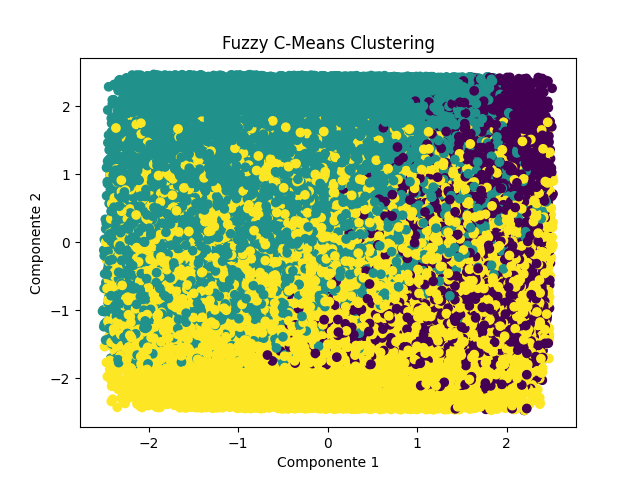
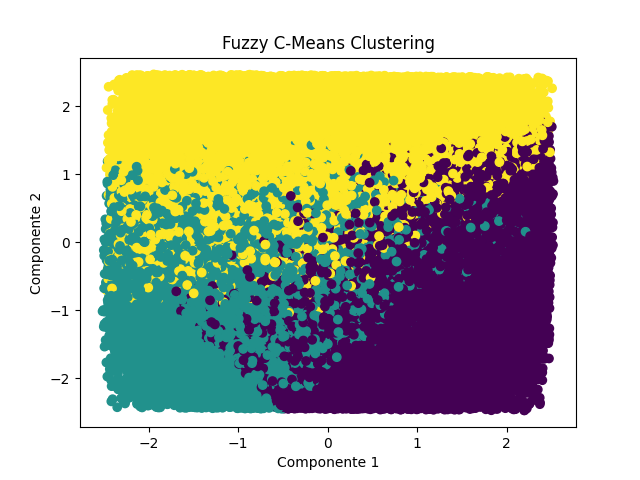
Corregido

diff --git a/informe_teorico_practico2/main.py b/informe_teorico_practico2/main.py
@@ -9,7 +9,7 @@ from sklearn.compose import ColumnTransformer
 from sklearn.pipeline import Pipeline
 from sklearn.impute import SimpleImputer
 from sklearn.linear_model import LogisticRegression
-from sklearn.tree import DecisionTreeClassifier
+from sklearn.tree import DecisionTreeClassifier, plot_tree
 from sklearn.linear_model import LinearRegression
 from sklearn.metrics import accuracy_score, precision_score, recall_score, f1_score, silhouette_score
 from sklearn.cluster import KMeans, DBSCAN
@@ -18,18 +18,11 @@ from sklearn.cluster import KMeans, DBSCAN
 import skfuzzy as fuzz
 
 df = pd.read_csv("ecommerce.csv")
-
-df = df.drop(columns=["Customer ID", "Customer Name"], errors='ignore')
-
-if "Customer Age" in df.columns and "Age" in df.columns:
-    df = df.drop(columns=["Customer Age"])
-
+df = df.drop(columns=["Customer ID", "Customer Name", "Customer Age"])
 df["Purchase Date"] = pd.to_datetime(df["Purchase Date"])
 df["month"] = df["Purchase Date"].dt.month
 df["day_of_week"] = df["Purchase Date"].dt.dayofweek
-
 df = df.drop(columns=["Purchase Date"])
-
 X = df.drop("Churn", axis=1)
 y = df["Churn"]
 
@@ -41,13 +34,11 @@ num_pipeline = Pipeline([
     ("imputer", SimpleImputer(strategy="mean")),
     ("scaler", StandardScaler())
 ])
-
 # Pipeline categórico
 cat_pipeline = Pipeline([
     ("imputer", SimpleImputer(strategy="most_frequent")),
     ("encoder", OneHotEncoder(handle_unknown="ignore"))
 ])
-
 # Preprocesador completo
 preprocessor = ColumnTransformer([
     ("num", num_pipeline, num_cols),
@@ -61,7 +52,7 @@ X_train, X_test, y_train, y_test = train_test_split(
 
 models = {
     "Logistic Regression": LogisticRegression(max_iter=1000),
-    "Decision Tree": DecisionTreeClassifier(max_depth=5),
+    "Decision Tree": DecisionTreeClassifier(max_depth=3),
     "Linear Regression": LinearRegression()
 }
 
@@ -77,7 +68,7 @@ for name, model in models.items():
     y_pred = pipe.predict(X_test)
 
     if name == "Linear Regression":
-        y_pred = (y_pred > 0.5).astype(int)
+        y_pred = (y_pred > 0.5).astype(int) #True o false lo convierte a 1 o 0 respectivamente
     
     results_original[name] = {
         "accuracy": accuracy_score(y_test, y_pred),
@@ -90,6 +81,15 @@ print("\n=== RESULTADOS DATASET ORIGINAL ===")
 for k, v in results_original.items():
     print(k, v)
 
+#Tengo que hacer a parte el arbol para luego graficar
+tree_pipe = Pipeline([
+    ("prep", preprocessor),
+    ("model", DecisionTreeClassifier(max_depth=3))
+])
+tree_pipe.fit(X_train, y_train)
+tree_model = tree_pipe.named_steps["model"]
+feature_names = tree_pipe.named_steps["prep"].get_feature_names_out()
+
 # clustering no supervisado
 
 
@@ -98,21 +98,17 @@ os.makedirs(output_dir, exist_ok=True)
 
 
 X_processed = preprocessor.fit_transform(X)
-
-
 pca = PCA(n_components=2)
 X_pca = pca.fit_transform(X_processed)
 
 # kmeans
 kmeans = KMeans(n_clusters=3, random_state=42)
 clusters_kmeans = kmeans.fit_predict(X_processed)
-
 # dbscan
 dbscan = DBSCAN(eps=0.5, min_samples=5)
 clusters_dbscan = dbscan.fit_predict(X_processed)
-
 # Fuzzy c means
-X_np = X_processed.toarray() if hasattr(X_processed, "toarray") else X_processed
+X_np = X_processed.toarray() if hasattr(X_processed, "toarray") else X_processed # Fuzzy es una libreria vieja y no maneja un sparse matrix, por eso toca convertirlo a array
 X_np = X_np.T
 
 cntr, u, _, _, _, _, _ = fuzz.cluster.cmeans(
@@ -133,6 +129,20 @@ def guardar_grafica(X, labels, titulo, filename):
     plt.savefig(os.path.join(output_dir, filename))
     plt.close()
 
+def guardar_arbol(tree_model, feature_names, filename):
+    plt.figure(figsize=(18,10))
+    
+    plot_tree(
+        tree_model,
+        feature_names=feature_names,
+        class_names=["No Churn", "Churn"],
+        filled=True
+    )
+    
+    plt.title("Árbol de Decisión")
+    plt.savefig(os.path.join(output_dir, filename))
+    plt.close()
+
 # ============================================
 # GENERAR GRÁFICAS
 # ============================================
@@ -140,6 +150,7 @@ def guardar_grafica(X, labels, titulo, filename):
 guardar_grafica(X_pca, clusters_kmeans, "K-Means Clustering", "kmeans.png")
 guardar_grafica(X_pca, clusters_dbscan, "DBSCAN Clustering", "dbscan.png")
 guardar_grafica(X_pca, clusters_fuzzy, "Fuzzy C-Means Clustering", "fuzzy.png")
+guardar_arbol(tree_model, feature_names, "arbol_decision.png")
 
 # Evaluación clustering
 try:
@@ -151,12 +162,9 @@ except:
 # REETIQUETADO (30% DE RUIDO)
 
 y_noisy = y.copy()
-
 n = int(0.3 * len(y))
 indices = np.random.choice(len(y), n, replace=False)
-
 y_noisy.iloc[indices] = 1 - y_noisy.iloc[indices]
-
 X_train, X_test, y_train, y_test = train_test_split(
     X, y_noisy, test_size=0.2, random_state=42
 )
